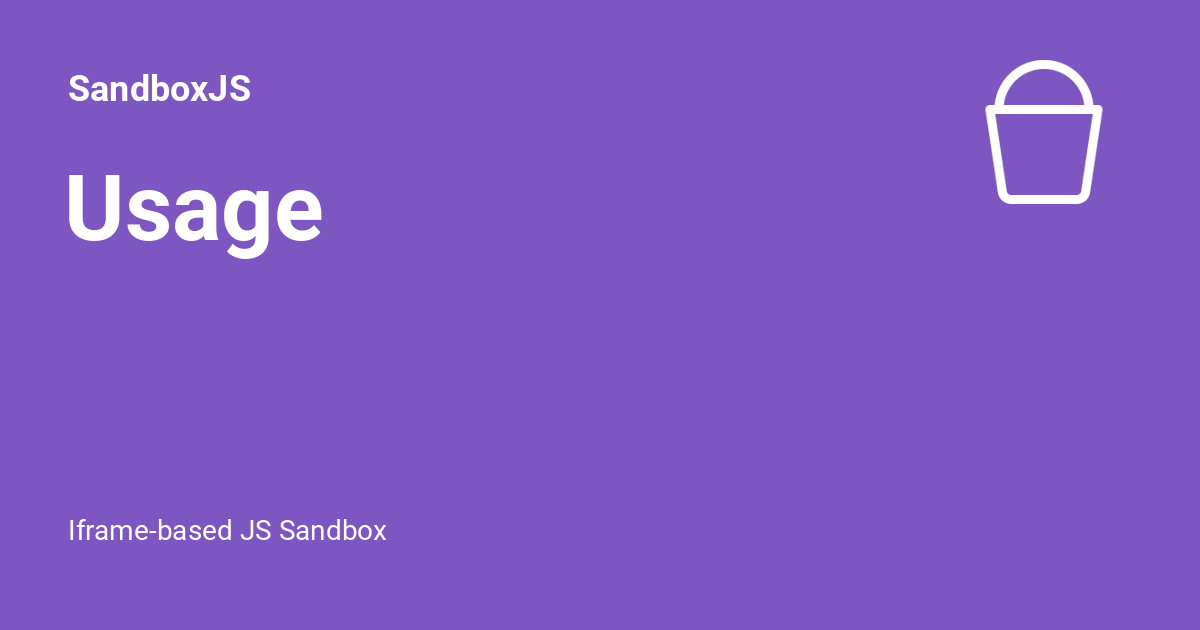
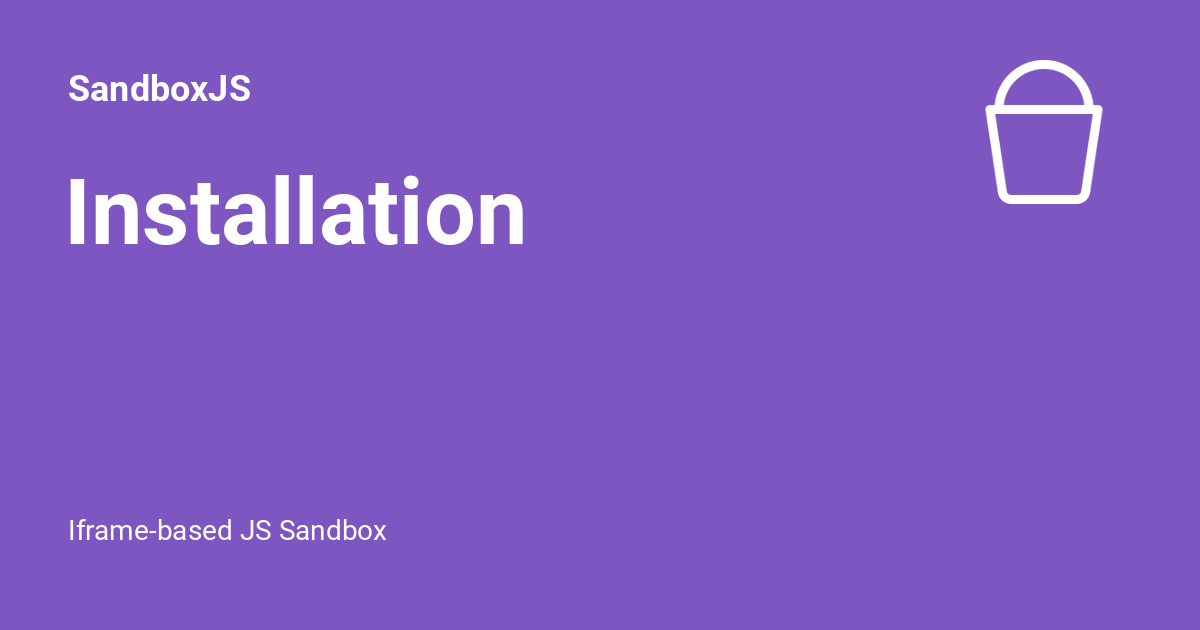
deploy: dbfcb2199f7933c0e28c0257d9c41844a39984e2 Commit fix: resolve a stupid moment

Changed region(s): [[0.0617, 0.2714, 0.4625, 0.4222]]

diff --git a/docs/mirrors/index.html b/docs/mirrors/index.html
@@ -10,13 +10,9 @@
       
       
       
-        <link rel="canonical" href="https://sandboxjs.foo/docs/installation/">
+        <link rel="canonical" href="https://sandboxjs.foo/docs/mirrors/">
       
       
-        <link rel="prev" href="..">
-      
-      
-        <link rel="next" href="../usage/">
       
       
         
@@ -27,7 +23,7 @@
     
     
       
-        <title>Installation - SandboxJS</title>
+        <title>Mirrors - SandboxJS</title>
       
     
     
@@ -61,11 +57,11 @@
       
         <meta  property="og:type"  content="website" >
       
-        <meta  property="og:title"  content="Installation - SandboxJS" >
+        <meta  property="og:title"  content="Mirrors - SandboxJS" >
       
         <meta  property="og:description"  content="Iframe-based JS Sandbox" >
       
-        <meta  property="og:image"  content="https://sandboxjs.foo/docs/assets/images/social/installation.png" >
+        <meta  property="og:image"  content="https://sandboxjs.foo/docs/assets/images/social/mirrors.png" >
       
         <meta  property="og:image:type"  content="image/png" >
       
@@ -73,15 +69,15 @@
       
         <meta  property="og:image:height"  content="630" >
       
-        <meta  property="og:url"  content="https://sandboxjs.foo/docs/installation/" >
+        <meta  property="og:url"  content="https://sandboxjs.foo/docs/mirrors/" >
       
         <meta  name="twitter:card"  content="summary_large_image" >
       
-        <meta  name="twitter:title"  content="Installation - SandboxJS" >
+        <meta  name="twitter:title"  content="Mirrors - SandboxJS" >
       
         <meta  name="twitter:description"  content="Iframe-based JS Sandbox" >
       
-        <meta  name="twitter:image"  content="https://sandboxjs.foo/docs/assets/images/social/installation.png" >
+        <meta  name="twitter:image"  content="https://sandboxjs.foo/docs/assets/images/social/mirrors.png" >
       
     
     
@@ -102,7 +98,7 @@
     <div data-md-component="skip">
       
         
-        <a href="#installation" class="md-skip">
+        <a href="#mirrors" class="md-skip">
           Skip to content
         </a>
       
@@ -136,7 +132,7 @@
         <div class="md-header__topic" data-md-component="header-topic">
           <span class="md-ellipsis">
             
-              Installation
+              Mirrors
             
           </span>
         </div>
@@ -246,35 +242,9 @@
       
   
   
-    
   
-  
-    <li class="md-nav__item md-nav__item--active">
-      
-      <input class="md-nav__toggle md-toggle" type="checkbox" id="__toc">
-      
-      
-        
-      
-      
-        <label class="md-nav__link md-nav__link--active" for="__toc">
-          
-  
-  <span class="md-ellipsis">
-    
-  
-    Installation
-  
-
-    
-  </span>
-  
-  
-
-          <span class="md-nav__icon md-icon"></span>
-        </label>
-      
-      <a href="./" class="md-nav__link md-nav__link--active">
+    <li class="md-nav__item">
+      <a href="../installation/" class="md-nav__link">
         
   
   <span class="md-ellipsis">
@@ -289,48 +259,6 @@
   
 
       </a>
-      
-        
-
-<nav class="md-nav md-nav--secondary" aria-label="Table of contents">
-  
-  
-  
-    
-  
-  
-    <label class="md-nav__title" for="__toc">
-      <span class="md-nav__icon md-icon"></span>
-      Table of contents
-    </label>
-    <ul class="md-nav__list" data-md-component="toc" data-md-scrollfix>
-      
-        <li class="md-nav__item">
-  <a href="#npm" class="md-nav__link">
-    <span class="md-ellipsis">
-      
-        NPM
-      
-    </span>
-  </a>
-  
-</li>
-      
-        <li class="md-nav__item">
-  <a href="#cdn" class="md-nav__link">
-    <span class="md-ellipsis">
-      
-        CDN
-      
-    </span>
-  </a>
-  
-</li>
-      
-    </ul>
-  
-</nav>
-      
     </li>
   
 
@@ -387,20 +315,17 @@
 
 
 
-<h1 id="installation">Installation</h1>
-<h2 id="npm">NPM</h2>
-<p><code>pnpm i sboxjs</code></p>
-<h2 id="cdn">CDN</h2>
-<div class="tabbed-set tabbed-alternate" data-tabs="1:2"><input checked="checked" id="__tabbed_1_1" name="__tabbed_1" type="radio" /><input id="__tabbed_1_2" name="__tabbed_1" type="radio" /><div class="tabbed-labels"><label for="__tabbed_1_1">CJS</label><label for="__tabbed_1_2">MJS</label></div>
-<div class="tabbed-content">
-<div class="tabbed-block">
-<p>Load <code>https://sandboxjs.foo/lib/lib.cjs</code> in a script tag - e.g. <code>&lt;script src="https://sandboxjs.foo/lib/lib.cjs"&gt;&lt;/script&gt;</code></p>
-</div>
-<div class="tabbed-block">
-<p>Load <code>https://sandboxjs.foo/lib/lib.mjs</code> from an import - e.g. <code>import SandboxJS from 'https://sandboxjs.foo/lib/lib.mjs';</code></p>
-</div>
-</div>
-</div>
+<h1 id="mirrors">Mirrors</h1>
+<p>This repository has several mirrors.</p>
+<h2 id="source"><a href="https://codeberg.org/Expo/sbjs">Source</a></h2>
+<p>All repositories below mirror <a href="https://codeberg.org/Expo/sbjs">this source repo</a>.</p>
+<h2 id="mirrors_1">Mirrors</h2>
+<p>Remember: All of these can be stale, and they mirror the above. Only use these if codeberg is down, or you otherwise must rely on 3rd-party infrastructure - ie if your ISP, Network Administrator or Educational Facility blocks Codeberg.</p>
+<ul>
+<li><a href="https://notabug.org/Expo/sbjs">Notabug</a></li>
+<li><a href="https://gitlab.com/ExponentialWorkload/sbjs">GitLab</a></li>
+<li><a href="https://github.com/Exponential-Workload/sandboxjs">GitHub</a></li>
+</ul>
 
   
   
@@ -427,42 +352,6 @@
       
         <footer class="md-footer">
   
-    
-      
-      <nav class="md-footer__inner md-grid" aria-label="Footer" >
-        
-          
-          <a href=".." class="md-footer__link md-footer__link--prev" aria-label="Previous: Welcome" rel="prev">
-            <div class="md-footer__button md-icon">
-              <svg xmlns="http://www.w3.org/2000/svg" viewBox="0 0 24 24"><path d="M20 11v2H8l5.5 5.5-1.42 1.42L4.16 12l7.92-7.92L13.5 5.5 8 11h12Z"/></svg>
-            </div>
-            <div class="md-footer__title">
-              <div class="md-ellipsis">
-                <span class="md-footer__direction">
-                  Previous
-                </span>
-                Welcome
-              </div>
-            </div>
-          </a>
-        
-        
-          
-          <a href="../usage/" class="md-footer__link md-footer__link--next" aria-label="Next: Usage" rel="next">
-            <div class="md-footer__title">
-              <div class="md-ellipsis">
-                <span class="md-footer__direction">
-                  Next
-                </span>
-                Usage
-              </div>
-            </div>
-            <div class="md-footer__button md-icon">
-              <svg xmlns="http://www.w3.org/2000/svg" viewBox="0 0 24 24"><path d="M4 11v2h12l-5.5 5.5 1.42 1.42L19.84 12l-7.92-7.92L10.5 5.5 16 11H4Z"/></svg>
-            </div>
-          </a>
-        
-      </nav>
     
   
   <div class="md-footer-meta md-typeset">

diff --git a/docs/usage/index.html b/docs/usage/index.html
@@ -252,7 +252,7 @@
   <span class="md-ellipsis">
     
   
-    Usage
+    Installation
   
 
     
@@ -491,7 +491,7 @@ In scenarios like these, you need to reset the sandbox.</p>
       <nav class="md-footer__inner md-grid" aria-label="Footer" >
         
           
-          <a href="../installation/" class="md-footer__link md-footer__link--prev" aria-label="Previous: Usage" rel="prev">
+          <a href="../installation/" class="md-footer__link md-footer__link--prev" aria-label="Previous: Installation" rel="prev">
             <div class="md-footer__button md-icon">
               <svg xmlns="http://www.w3.org/2000/svg" viewBox="0 0 24 24"><path d="M20 11v2H8l5.5 5.5-1.42 1.42L4.16 12l7.92-7.92L13.5 5.5 8 11h12Z"/></svg>
             </div>
@@ -500,7 +500,7 @@ In scenarios like these, you need to reset the sandbox.</p>
                 <span class="md-footer__direction">
                   Previous
                 </span>
-                Usage
+                Installation
               </div>
             </div>
           </a>

diff --git a/docs/index.html b/docs/index.html
@@ -309,7 +309,7 @@
   <span class="md-ellipsis">
     
   
-    Usage
+    Installation
   
 
     
@@ -411,13 +411,13 @@
         
         
           
-          <a href="installation/" class="md-footer__link md-footer__link--next" aria-label="Next: Usage" rel="next">
+          <a href="installation/" class="md-footer__link md-footer__link--next" aria-label="Next: Installation" rel="next">
             <div class="md-footer__title">
               <div class="md-ellipsis">
                 <span class="md-footer__direction">
                   Next
                 </span>
-                Usage
+                Installation
               </div>
             </div>
             <div class="md-footer__button md-icon">

diff --git a/docs/404.html b/docs/404.html
@@ -217,7 +217,7 @@
   <span class="md-ellipsis">
     
   
-    Usage
+    Installation
   
 
     
